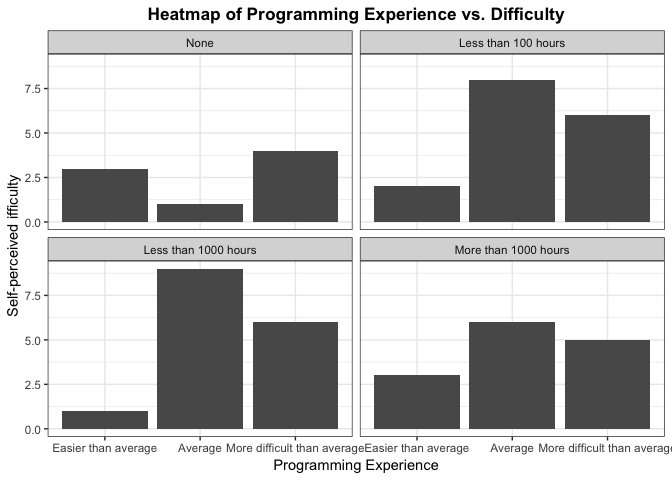
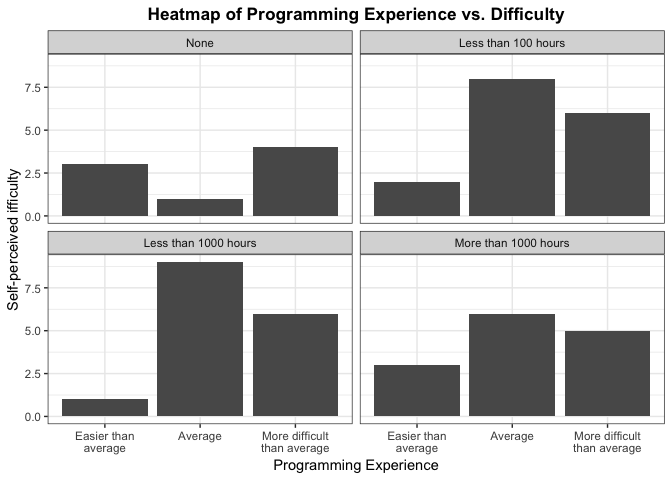
tidy x-ticks on fig 2

diff --git a/Milestone3/report.md b/Milestone3/report.md
@@ -322,34 +322,9 @@ lrtest(olr.M3, olr.M0)
 
 Again, this does not yeild a better fit than the null model.
 
-``` r
-# TBD: Shoud we try this?
-olr.M4 <- polr(difficulty~sex+math_skill+friend_with_prog*prog_exp, data=clean_data)
-```
-
-    ## Warning: glm.fit: fitted probabilities numerically 0 or 1 occurred
-
-``` r
-#Are all variables good predictors?
-lrtest(olr.M4, olr.M0)
-```
-
-    ## Likelihood ratio test
-    ## 
-    ## Model 1: difficulty ~ sex + math_skill + friend_with_prog * prog_exp
-    ## Model 2: difficulty ~ 1
-    ##   #Df  LogLik  Df  Chisq Pr(>Chisq)  
-    ## 1  12 -47.367                        
-    ## 2   2 -55.422 -10 16.109    0.09655 .
-    ## ---
-    ## Signif. codes:  0 '***' 0.001 '**' 0.01 '*' 0.05 '.' 0.1 ' ' 1
-
 # 5.0 Discussion
 
 ## 5.1 Findings
-
-1.  Discussing the results and findings of your survey and analysis of
-    the survey data.
 
 The main aspect of our analysis is to investigate the influence of prior
 programming experience on the outcome, self-perceived difficulty of DSCI
@@ -381,7 +356,12 @@ results.
 | Easier than average|Average         | 0.6383519 |  1.9162460 | 0.3331263 | 0.7390390 |
 | Average|More difficult than average | 2.8598348 |  1.9598299 | 1.4592261 | 0.1445029 |
 
-> > ??? comparison results
+*Table 2. P-value of coefficients and intercepts*
+
+Similarly, when we compared multiple alternative models via the
+likelihood ratio test, we did not find any that were a significantly
+better fit than the null model. Therfore, this method also indicates
+that we do not evidence to reject the null hypothesis.
 
 ## 5.2 Survey design
 
@@ -395,6 +375,13 @@ gather data to control for them. This diligence helped our end goal of
 reaching a conclusion free of spurious findings. We also made an
 assumption that relationship between each pair of outcome groups is the
 same.
+
+We also streamlined our survey questions to lighten the cognitive load
+on participants. We believe this helped us maximize our sample size.
+Unfortunately, this involved lowering the number of intervals in our
+observed variables to a point where we could only analyze them as
+categorical variables. This problem is discussed further under **Future
+Directions**, below.
 
 ### Limitations
 
@@ -433,22 +420,3 @@ is definitely something we would change.
     regression](https://stats.idre.ucla.edu/r/dae/ordinal-logistic-regression/)
 
 -----
-
-  - Your target audience is other Data Scientists who are not familiar
-    with your project.
-  - Clearly introduce the survey topic and question you were interested
-    in answering.
-  - Link to your study’s data and code in the methods section of your
-    report.
-  - Include effective visualizations and/or tables that help communicate
-    your findings.
-  - Your discussion should have 2 key focuses:
-    1.  Discussing the results and findings of your survey and analysis
-        of the survey data.
-    2.  Discussing your survey/study design, specifically:
-    <!-- end list -->
-      - what did you do well to make this study as causal as possible?
-      - what was not done well and how did that effect your studies
-        conclusions?
-      - what would you do differently next time to improve your
-        survey/study design and why?
